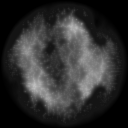
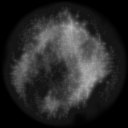
Extra tweaks to system
Made some extra tweaks mainly to how rainfall affects the rivers and
forests generation

diff --git a/generators.py b/generators.py
@@ -146,12 +146,10 @@ class MainGenerator:
         pass
 
     # Generators
-    def gen_standard(self, scale):
-
+    def gen_simple_noise(self, scale):
         res = 2 ** scale if scale < 8 else 2 ** 8
         size = (res, res)
-
-
+        # Generate the noise using noiselib
         src = fBm(8, 0.45, simplex_noise2)
         src = RescaleNoise((-1, 1), (0, 1), src)
         colors = ((0, 0, 0), (233, 233, 233), 1)
@@ -163,13 +161,16 @@ class MainGenerator:
         surface = pygame.transform.smoothscale(surface, size)
 
         return surface
+
     def gen_island(self, scale, rainfall):
         """Generates an island map."""
         # Generate a standard map
-        slate = self.gen_standard(scale)
+
+        # If the scale is 5 or below generate at a higher size then scale down for better results
+        slate = self.gen_simple_noise(scale)
 
         # apply the mask
-        slate = self.increase_contrast(slate, 1.6, 0)
+        slate = self.increase_contrast(slate, 1.6)
         slate = self.mask_radial(slate)
         self.erosion(slate, 4+rainfall)
         return slate
@@ -177,7 +178,7 @@ class MainGenerator:
     def gen_continents(self, scale, rainfall):
         """Generates a map with two large continents."""
         # Generate a standard map
-        slate = self.gen_standard(scale)
+        slate = self.gen_simple_noise(scale)
 
         # apply the mask
         slate = self.increase_contrast(slate, 1.4, 40)
@@ -189,13 +190,12 @@ class MainGenerator:
     def gen_highlands(self, scale, rainfall):
         """Generates a highland map with high-up land, higher resources and little water or trees."""
         # Generate a standard map
-        slate = self.gen_standard(scale)
+        slate = self.gen_simple_noise(scale)
 
-
-        self.erosion(slate, 5+rainfall)
-        pygame.image.save(slate, "slate_before_contrast.png")
+        # erode the highland slightly more than the other map types
+        self.erosion(slate, 6+rainfall)
+        # The third parameter, brightness, is what makes this a highland map with a +100 modifier
         slate = self.increase_contrast(slate, 1.2, 100)
-        pygame.image.save(slate, "slate_after_contrast.png")
         return slate
 
     # Overlay masks
@@ -556,6 +556,7 @@ class GameMapGenerator:
         self.gen_ore_veins()
         # Select player startpoint on the largest island
         islands_to_test = sorted(self.map.playable_islands, key=len)
+        islands_to_test.reverse()
 
         for island in islands_to_test:
             if self.select_player_startpoint(island):
@@ -682,7 +683,7 @@ class GameMapGenerator:
             rivers_count = random.randint(min_rivers, rivers_count)
 
             # Adjust number of rivers for rainfall value
-            rivers_count += (self.rainfall - 1)
+            rivers_count += (self.rainfall - 1) * 2
 
             height_values = [{'value': self.averageRGB(surface.get_at(x)), 'loc': x} for x in island]
             height_values = sorted(height_values, key=lambda x: x['value'])
@@ -833,10 +834,10 @@ class GameMapGenerator:
             if len(island) < 30:
                 continue
 
-            min_forests = 0
+            min_forests = 1
             # If it's a particularly big island relative to the map size, we should need a few forests
             if len(island) > ((self.map.size[0] + self.map.size[1]) / 2) ** 1.15:
-                min_forests = 3
+                min_forests = 4
 
             # calculate a maximum number of forests
             forest_count = max(min_forests + 4, int(math.sqrt(len(island)) / 3))
@@ -846,7 +847,7 @@ class GameMapGenerator:
             else:
                 forest_count = random.randint(min_forests, forest_count)
 
-            forest_count += (self.rainfall - 2)
+            forest_count += (self.rainfall - 1)*3
 
             counted_tiles = []
             while forest_count > 0:
@@ -864,10 +865,10 @@ class GameMapGenerator:
                 if len(counted_tiles) >= len(island):
                     break
 
-                self.grow_trees(loc, 'up', random.randint(6, 12))
-                self.grow_trees(loc, 'down', random.randint(6, 12))
-                self.grow_trees(loc, 'left', random.randint(6, 12))
-                self.grow_trees(loc, 'right', random.randint(6, 12))
+                self.grow_trees(loc, 'up', random.randint(6, 12) + self.rainfall * 2)
+                self.grow_trees(loc, 'down', random.randint(6, 12) + self.rainfall * 2)
+                self.grow_trees(loc, 'left', random.randint(6, 12) + self.rainfall * 2)
+                self.grow_trees(loc, 'right', random.randint(6, 12) + self.rainfall * 2)
                 forest_count -= 1
 
     def grow_trees(self, loc, direction, weight):

diff --git a/ui.py b/ui.py
@@ -161,16 +161,12 @@ class ConfigureScreen:
         }
         self.size_types = {
             'high': {
-                'label': config.FONT.render("Small", 1, pygame.Color("white")),
+                'label': config.FONT.render("Large (May take longer to load)", 1, pygame.Color("white")),
                 'button': RadioButton(False, lambda: set('size_type', 'high'))
             },
             'medium': {
                 'label': config.FONT.render("Medium", 1, pygame.Color("white")),
                 'button': RadioButton(True, lambda: set('size_type', 'medium'))
-            },
-            'low': {
-                'label': config.FONT.render("Large (May take longer to load)", 1, pygame.Color("white")),
-                'button': RadioButton(False, lambda: set('size_type', 'low'))
             }
         }
         self.difficulty_types = {
@@ -404,7 +400,7 @@ class GameScreen:
                 if event.type == pygame.QUIT:
                     exit()
 
-                if pygame.mouse.get_pressed()[0]:
+                if pygame.mouse.get_pressed()[0] and hasattr(event, 'pos'):
                     self.click(event.pos)
 
                 # Controls for moving the map
